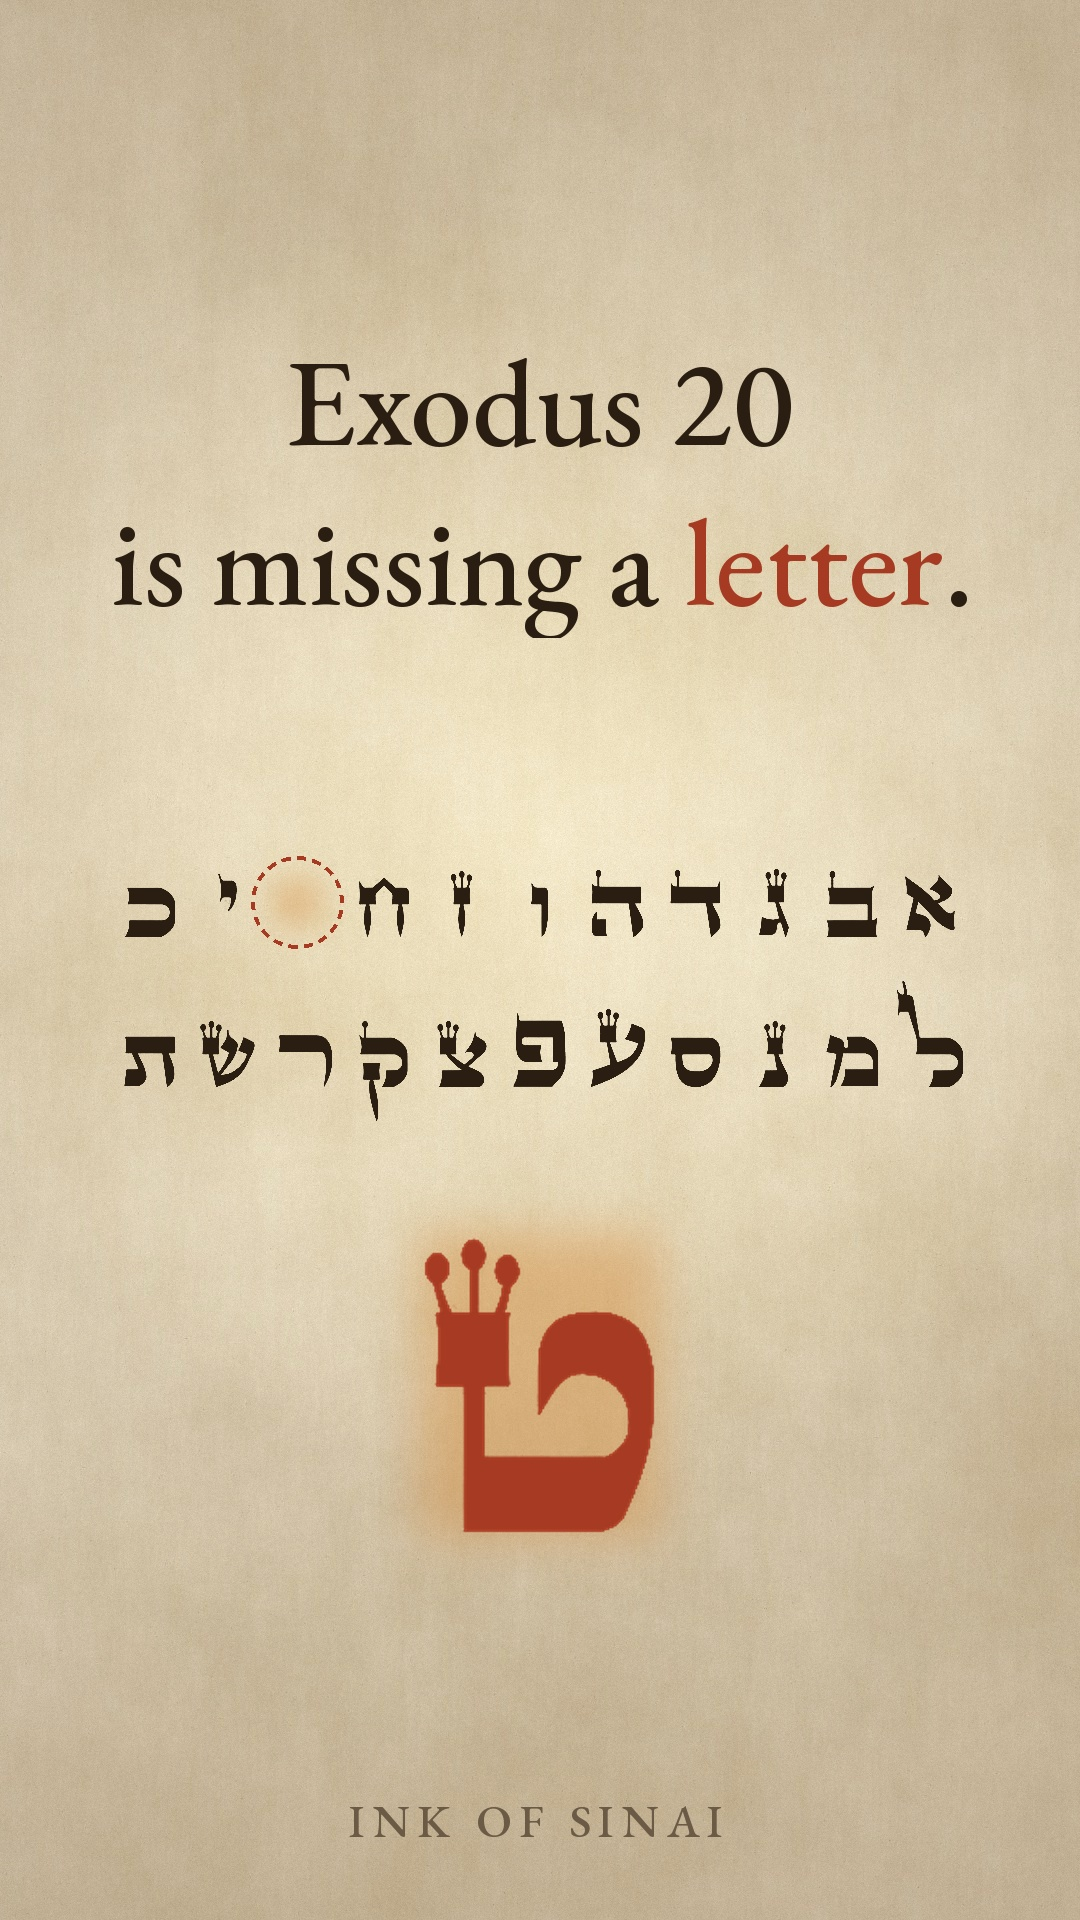
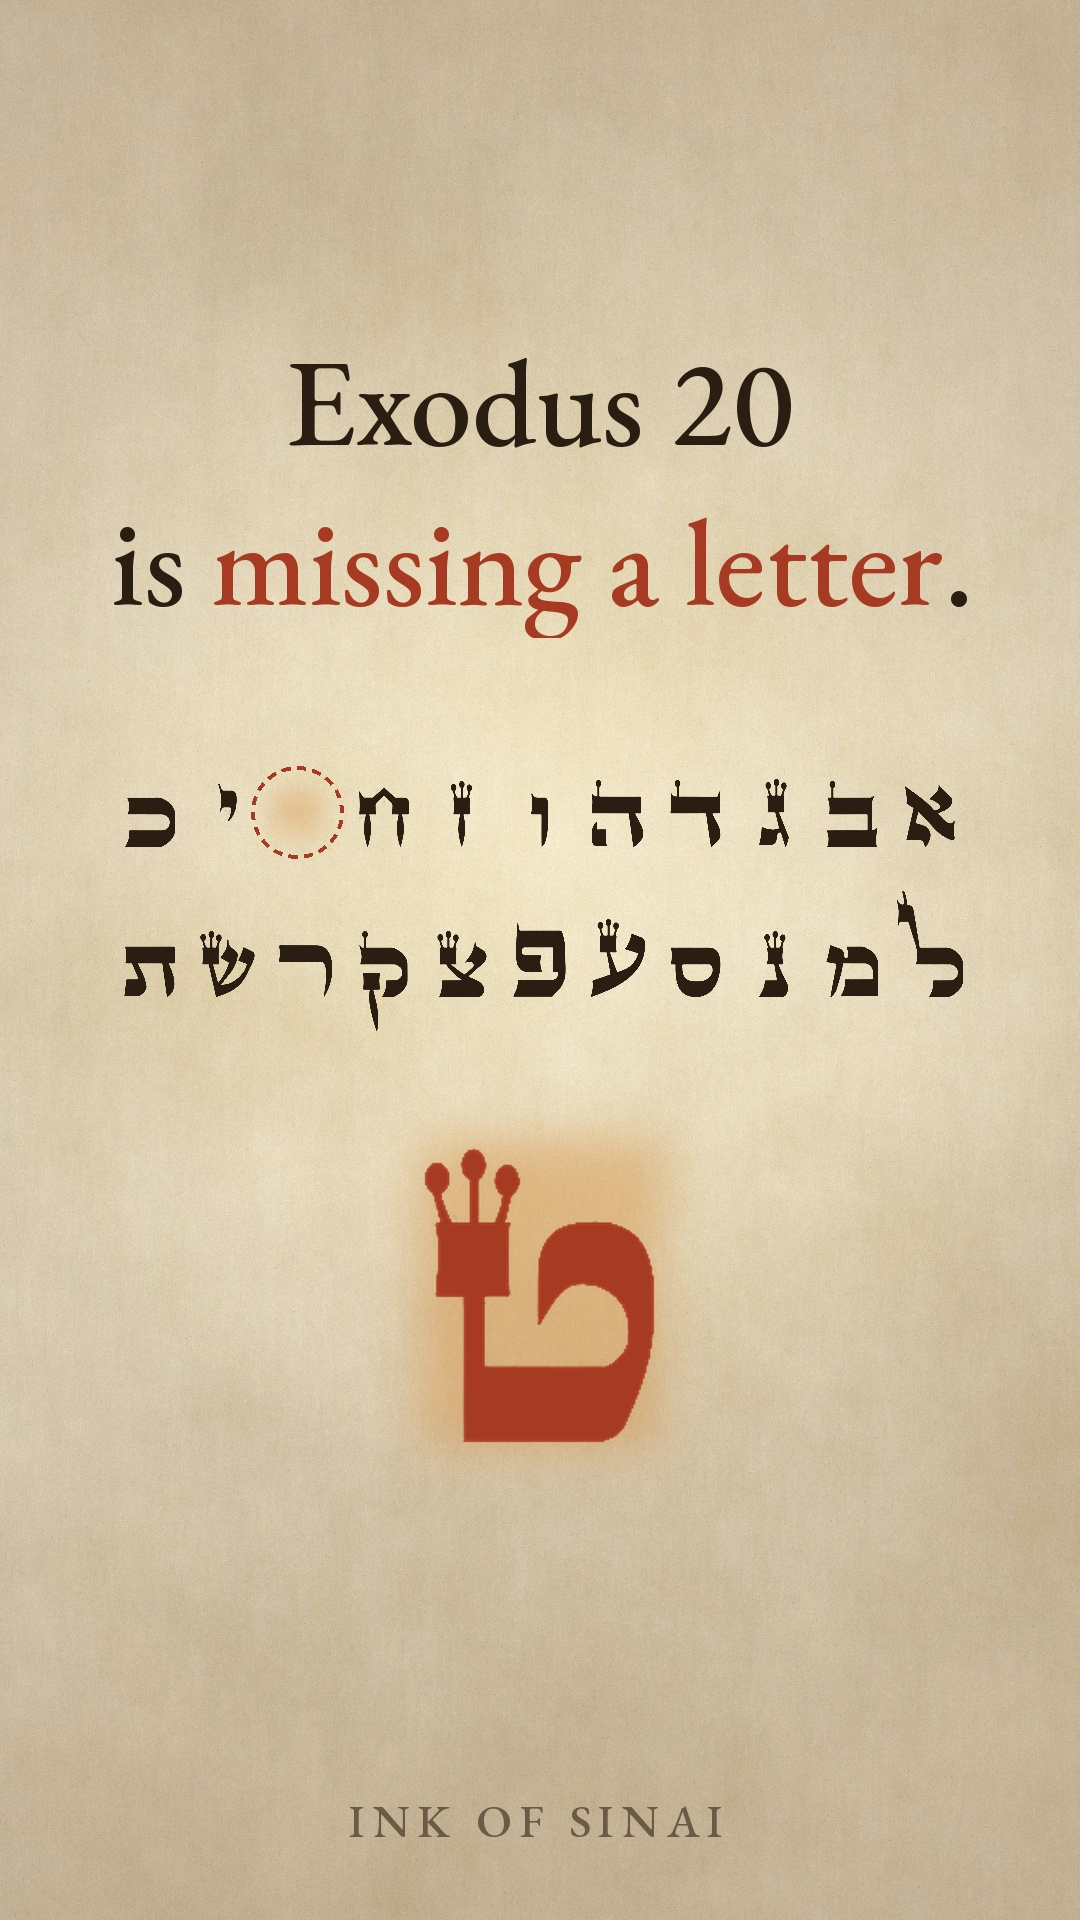
s19 cover: red phrase, letters moved up

diff --git a/_research/sfx_engine/cover19.py b/_research/sfx_engine/cover19.py
@@ -8,10 +8,10 @@ def put(it, y, t=99.0):
     ink = ink_dx(it); it.draw(c, (W - it.w) // 2 + ink, y, t); return y + it.h
 y = 320
 y = put(Line('Exodus 20', 124, 0), y)
-y = put(Line([('is missing a ', INK), ('letter', RED), ('.', INK)], 124, 0), y + 2)
+y = put(Line([('is ', INK), ('missing a letter', RED), ('.', INK)], 124, 0), y + 2)
 al = Alphabet(0, 'hole', k=1.0); al.tc = -10     # circle fully drawn
-al.draw(c, (W - al.w) // 2, 830, 99.0)
-tp = Pop(big_teth, 0); put(tp, 1160)
+al.draw(c, (W - al.w) // 2, 740, 99.0)
+tp = Pop(big_teth, 0); put(tp, 1070)
 d = ImageDraw.Draw(c); f = font(46)
 tw = sum(f.getlength(ch) + 8 for ch in 'INK OF SINAI'); xx = 540 - tw / 2
 for ch in 'INK OF SINAI': d.text((xx, 1790), ch, font=f, fill=(*MUTED, 255)); xx += f.getlength(ch) + 8

diff --git a/_research/shorts/s19_packaging.md b/_research/shorts/s19_packaging.md
@@ -21,4 +21,4 @@ Send this to someone who knows the Ten Commandments by heart.
 #tencommandments #hebrewbible #torah #bible #biblestudy
 
 COVER
-s19_cover.jpg (1080x1920). Text: "Exodus 20 / is missing a letter." ("letter" in red, 124 px) over the alphabet with the empty teth slot circled and a red teth under it.
+s19_cover.jpg (1080x1920). Text: "Exodus 20 / is missing a letter." ("missing a letter" in red, 124 px) over the alphabet with the empty teth slot circled and a red teth under it, both moved up.
